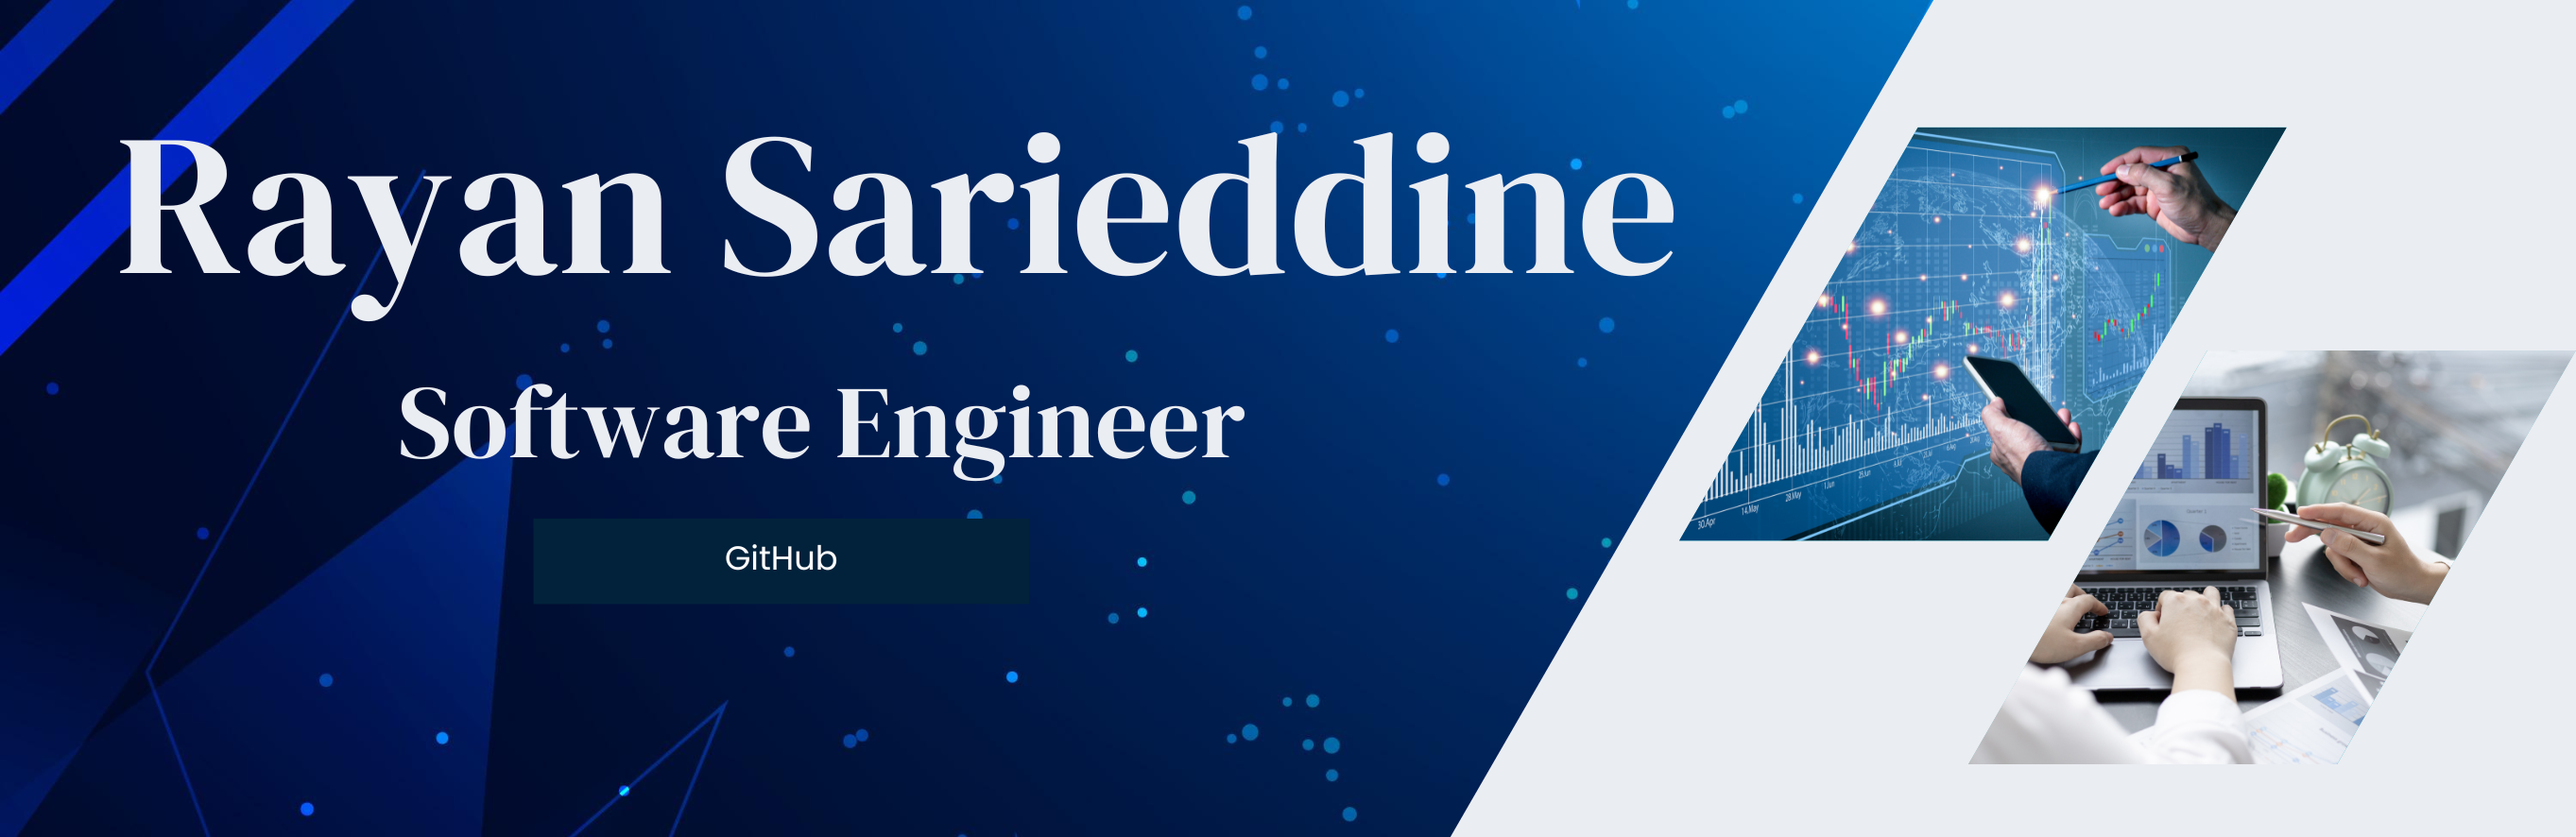
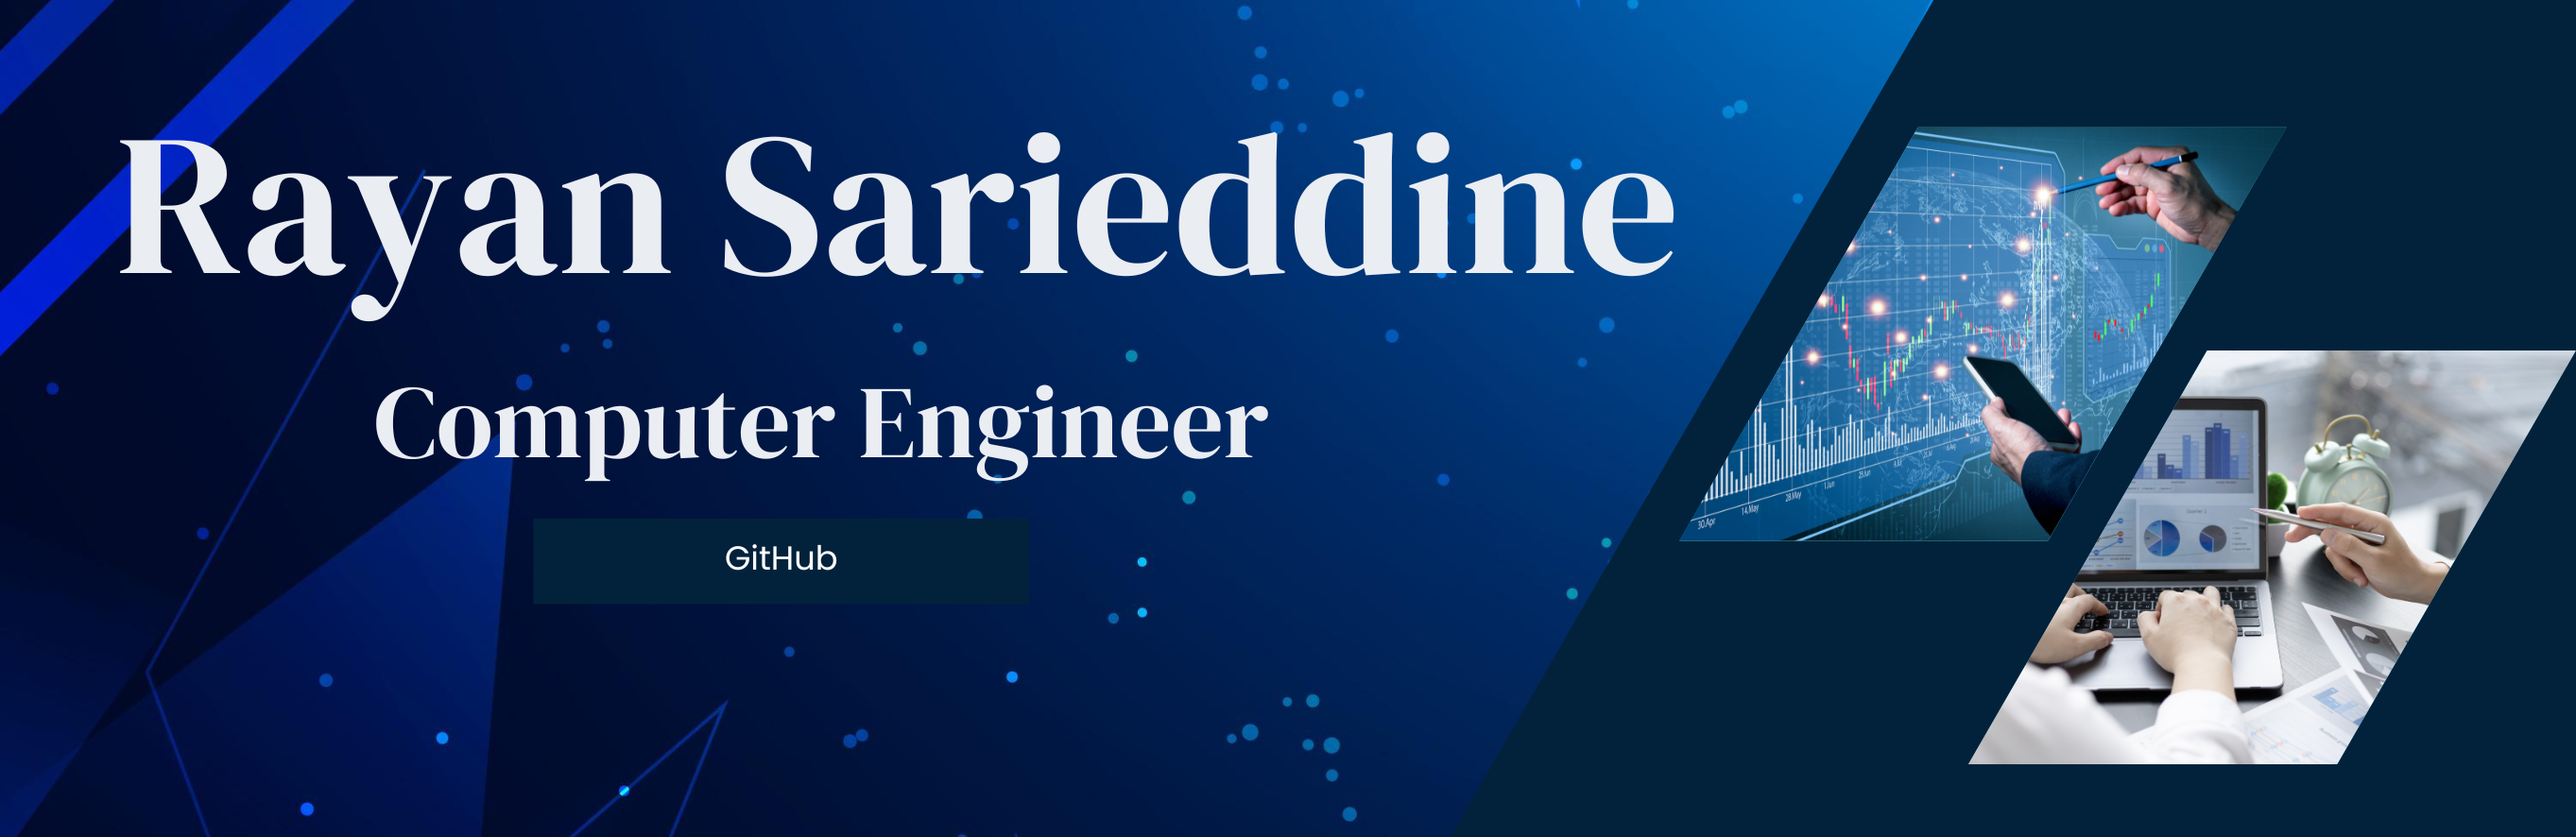
updated readme

Changed region(s): [[0.5613, 0.0, 1.0, 1.0], [0.1247, 0.4571, 0.4989, 0.579]]

diff --git a/README.md b/README.md
@@ -1,24 +1,62 @@
 # Rayan Sarieddine
+
 ## Software Engineer
+
 ![I am a Full-Stack developer](https://github.com/Rayan-Sarieddine/Rayan-Sarieddine/blob/main/header-github.png)
 
 Since the first “Hello world” output came up on my screen, I have been a tech enthusiast, passionate about creating software solutions and dedicated to do it all through clean code. I have a bachelor's degree in computer engineering and I specialize in finding the best ways to make a software look good through a unique UI, and for it to be dependable through even better functionalities. I thrive in dynamic environments and enjoy tackling new challenges and staying up to date on the latest innovations in technology.
 
-## Skills:  
--📃HTML    
--🎨CSS    
--🔨JS   
--⚛REACT   
--🍧VUEJS    
--⌨NODE JS    
--🐍PYTHON    
--🖱PHP    
--LARAVEL    
--🕸WORDPRESS    
--📅SQL    
-     
+## Programming, mark-up & styling Languages:
 
-[<img src='https://cdn.jsdelivr.net/npm/simple-icons@3.0.1/icons/github.svg' alt='github' height='40'>](https://github.com/https://github.com/Rayan-Sarieddine)  [<img src='https://cdn.jsdelivr.net/npm/simple-icons@3.0.1/icons/linkedin.svg' alt='linkedin' height='40'>](https://www.linkedin.com/in/https://www.linkedin.com/in/rayan-sarieddine/)  [<img src='https://cdn.jsdelivr.net/npm/simple-icons@3.0.1/icons/facebook.svg' alt='facebook' height='40'>](https://www.facebook.com/https://www.facebook.com/rayan.sarieddine.5?mibextid=ZbWKwL)  [<img src='https://cdn.jsdelivr.net/npm/simple-icons@3.0.1/icons/instagram.svg' alt='instagram' height='40'>](https://www.instagram.com/https://instagram.com/rayan_sd_?igshid=OGQ5ZDc2ODk2ZA==/)  [<img src='https://cdn.jsdelivr.net/npm/simple-icons@3.0.1/icons/twitter.svg' alt='twitter' height='40'>](https://twitter.com/https://twitter.com/RayanSd3?t=--nlSmG1NaQ3dObmUFdbWA&s=08)      
-    
-       
+-🌐HTML  
+-🎨CSS  
+-💻JavaScript  
+-📘TypeScript  
+-🐘PHP  
+-🐍Python  
+-🌙Lua  
+-☕Java  
+-🖥C++  
+-🗃SQL
+
+## Database Management Systems:
+
+-🐬MySQL  
+-🍃MongoDB
+
+## Frameworks and Libraries:
+
+-🌟Laravel  
+-🎯jQuery  
+-⚛React  
+-📱React Native  
+-🚀Node.js  
+-🛣Express  
+-🐍Django  
+-🥾Bootstrap 5  
+-🌬Tailwind CSS  
+-⚡Electron.js
+
+## Tools and Cloud Service:
+
+-🐙GitHub  
+-📬Postman  
+-🌐WordPress  
+-🎨Canva  
+-🖌Figma  
+-🚀Jira  
+-🖥Adobe  
+-📎Microsoft Office
+
+## Theory:
+
+-🧱OOP
+-🧩Programming Paradigms  
+-📚Data Structures and Algorithms  
+-⏱Complexity Analysis  
+-⚙Run-time systems  
+-📐Design Theory
+
+[<img src='https://cdn.jsdelivr.net/npm/simple-icons@3.0.1/icons/github.svg' alt='github' height='40'>](https://github.com/https://github.com/Rayan-Sarieddine) [<img src='https://cdn.jsdelivr.net/npm/simple-icons@3.0.1/icons/linkedin.svg' alt='linkedin' height='40'>](https://www.linkedin.com/in/https://www.linkedin.com/in/rayan-sarieddine/) [<img src='https://cdn.jsdelivr.net/npm/simple-icons@3.0.1/icons/facebook.svg' alt='facebook' height='40'>](https://www.facebook.com/https://www.facebook.com/rayan.sarieddine.5?mibextid=ZbWKwL) [<img src='https://cdn.jsdelivr.net/npm/simple-icons@3.0.1/icons/instagram.svg' alt='instagram' height='40'>](https://www.instagram.com/https://instagram.com/rayan_sd_?igshid=OGQ5ZDc2ODk2ZA==/) [<img src='https://cdn.jsdelivr.net/npm/simple-icons@3.0.1/icons/twitter.svg' alt='twitter' height='40'>](https://twitter.com/https://twitter.com/RayanSd3?t=--nlSmG1NaQ3dObmUFdbWA&s=08)
+
 [![Anurag's GitHub stats](https://github-readme-stats.vercel.app/api?username=rayan-sarieddine)](https://github.com/anuraghazra/github-readme-stats)
